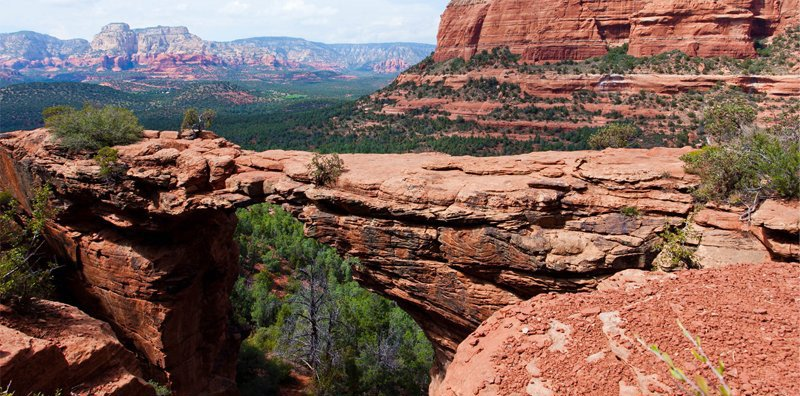
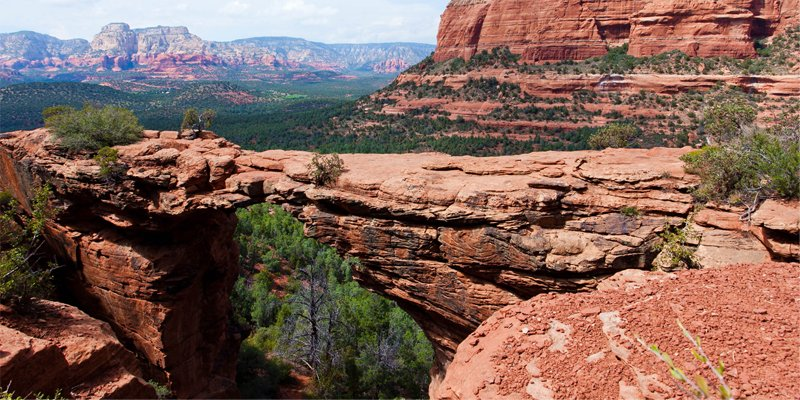
Вывел картинки на главной странице пиксель в пиксель

diff --git a/index.html b/index.html
@@ -49,7 +49,7 @@
             <p>Седона — не аттракцион для туристов,<br>там течет своя жизнь</p>
           </div>
           <div class="block-reason-illustration">
-            <img width="800" height="400" src="./img/sedona-photo1.jpg" alt="Фотография города Седона">
+            <img class="city-picture" width="800" height="400" src="./img/sedona-photo1.jpg" alt="Фотография города Седона">
           </div>
         </div>
         <div class="line-reason-top">
@@ -135,7 +135,7 @@
         </div>
         <div class="block-reason">
           <div class="block-reason-illustration">
-            <img width="800" height="400" src="./img/sedona-photo2.jpg" alt="Фотография моста Дьявола">
+            <img class="canyon-picture" width="800" height="400" src="./img/sedona-photo2.jpg" alt="Фотография моста Дьявола">
           </div>
           <div class="block-reason-title">
             <h3>Там есть<br>Мост Дьявола</h3>

diff --git a/css/style.css b/css/style.css
@@ -171,9 +171,14 @@ input [type="radio"].visually-hidden {
     overflow: hidden;
 }
 
-.block-reason-illustration img {
+.city-picture {
     position: absolute;
     top: -78px;
+}
+
+.canyon-picture {
+    position: absolute;
+    top: -76px;
 }
 
 .line-reason-top {
